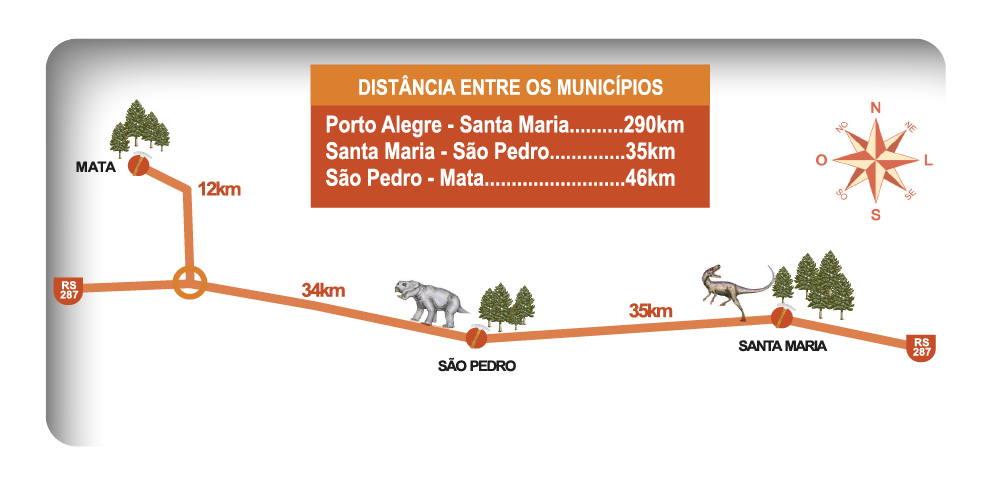
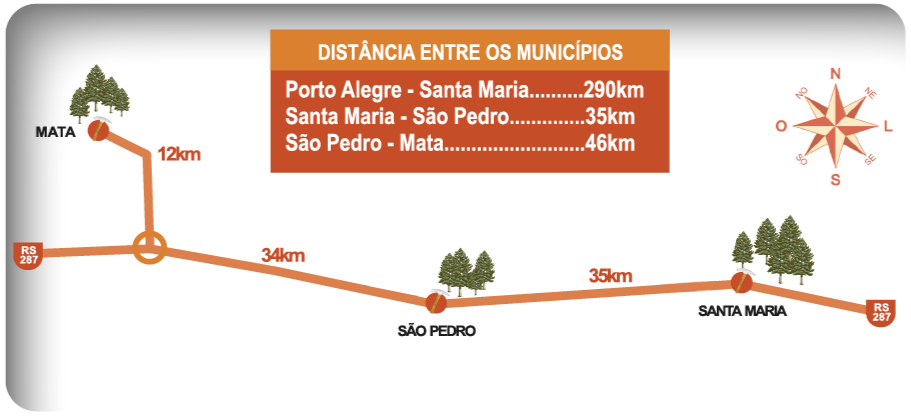
dino

diff --git a/conteudo.html b/conteudo.html
@@ -986,8 +986,13 @@
                         <p>Veja algumas informações que você poderá obter ao visitar a Rota Paleontológica. Passe o
                             mouse
                             por cima das imagens para ver os detalhes. </p>
-                        <img class="img-fluid d-block m-auto  aos-init aos-animate" data-aos="fade-right" data-aos-duration="1500" src="img/pagina3/pg3-figura11.png"
+                        <div class="dino-monstro">
+                            <img class="img-fluid d-block m-auto  aos-init aos-animate" data-aos="fade-right" data-aos-duration="1500" src="img/pagina3/pg3-figura11.png"
                             alt="A imagem mostra um desenho de parte da Rota da Paleontologia, com diferentes espécies de dinossauros na região das cidades de Santa Maria e São Pedro. À esquerda, são informadas as distâncias entre essas cidades e Porto Alegre. Acima, à direita, há informações do que vai ser encontrado em cada trecho da rota.">
+                            <img src="img/pagina3/Pg3-figura11-Dino1.png" id="dino-mini1" alt="">
+                            <img src="img/pagina3/Pg3-figura11-Dino2.png" id="dino-mini2" alt="">
+                        </div>
+                        
                         <figcaption style="margin-top: -35px">
                             Figura 11 – Rota Paleontológica/RS<br>
                             Fonte: Adaptado de XI Simpósio Brasileiro de Melhoramento Animal (2015)

diff --git a/assets/css/custom.css b/assets/css/custom.css
@@ -1403,6 +1403,34 @@ figcaption.hidden {
 }
 
 /* Fim Cruzada */
+.dino-monstro{
+    position: relative;
+}
+.dino-monstro #dino-mini1, .dino-monstro #dino-mini2{
+    width: 80px;
+    position: absolute;
+    cursor: pointer;
+    transition: all 0.3s;
+}
+.dino-monstro #dino-mini1:hover{
+    width: 250px;
+    top:40%;
+    left: 30%;
+
+}
+.dino-monstro #dino-mini2:hover{
+    width: 250px;
+    top:35%;
+    left: 62%;
+}
+.dino-monstro #dino-mini1{
+    top: 56%;
+    left: 39.5%;
+}
+.dino-monstro #dino-mini2{
+    top: 52%;
+    left: 71%;
+}
 
 footer.container-fluid {
     background-color: #00838d;
